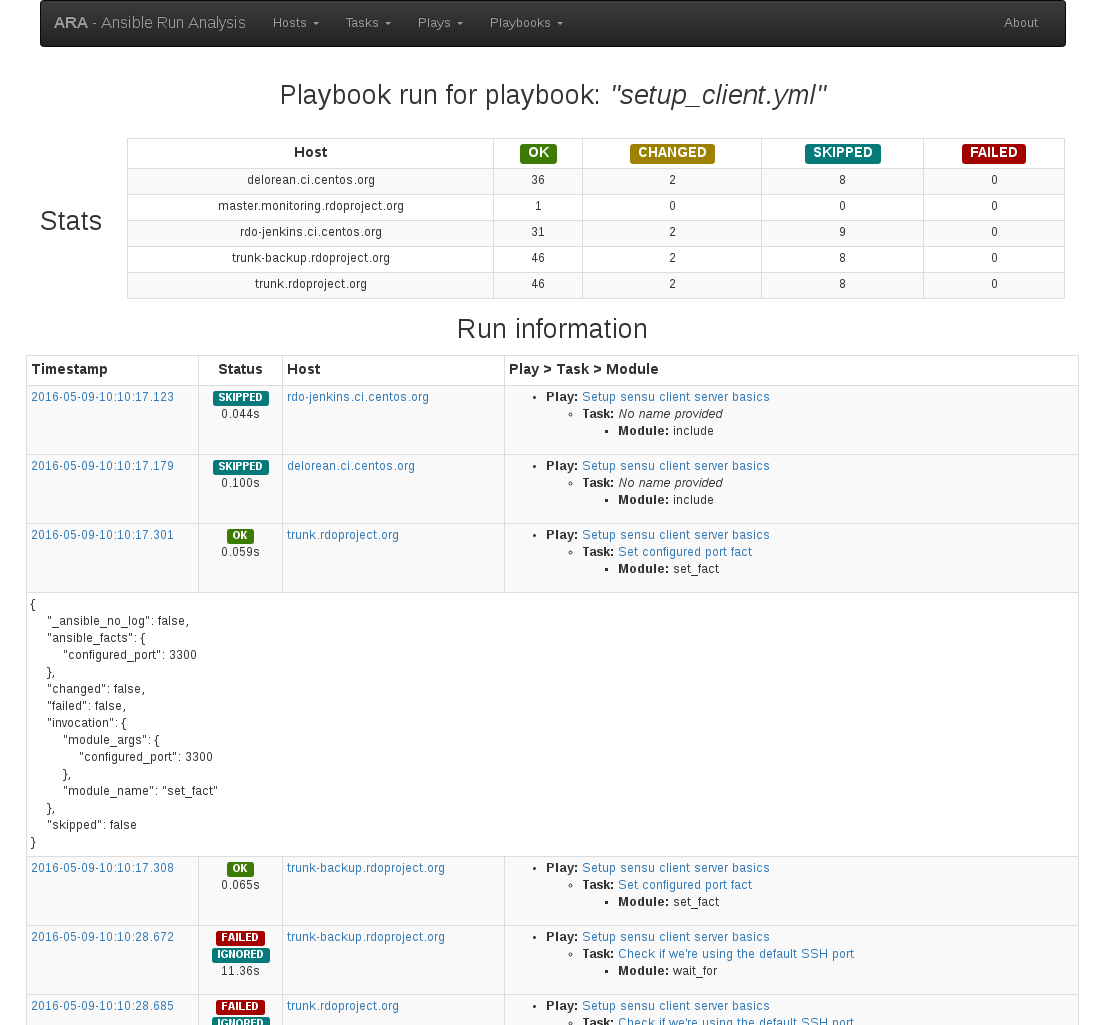
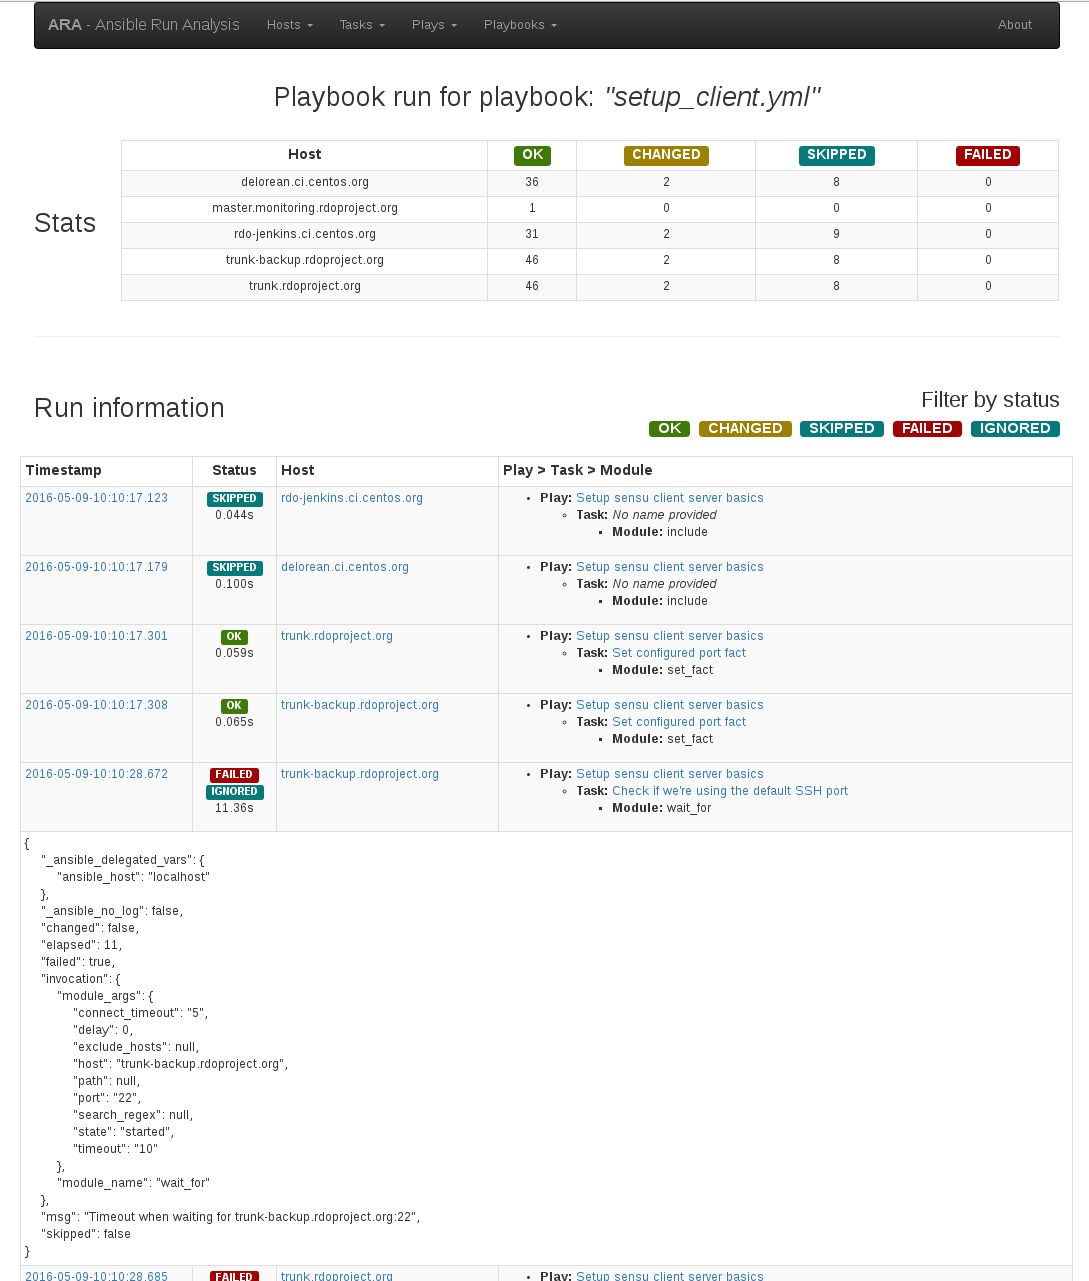
Add support for filtering by status

diff --git a/ara/templates/playbook.html b/ara/templates/playbook.html
@@ -15,10 +15,10 @@
             <thead>
                 <tr>
                     <th class="text-center">Host</th>
-                    <th class="text-center"><label class="label OK">OK</label></th>
-                    <th class="text-center"><label class="label CHANGED">CHANGED</label></th>
-                    <th class="text-center"><label class="label SKIPPED">SKIPPED</label></th>
-                    <th class="text-center"><label class="label FAILED">FAILED</label></th>
+                    <th class="text-center"><a href="/playbook/{{ playbook }}/ok"><label class="label OK">OK</label></a></th>
+                    <th class="text-center"><a href="/playbook/{{ playbook }}/changed"><label class="label CHANGED">CHANGED</label></th>
+                    <th class="text-center"><a href="/playbook/{{ playbook }}/skipped"><label class="label SKIPPED">SKIPPED</label></th>
+                    <th class="text-center"><a href="/playbook/{{ playbook }}/failed"><label class="label FAILED">FAILED</label></th>
                 </tr>
             </thead>
             <tbody>
@@ -35,8 +35,24 @@
         </table>
     </div>
 </div>
+<br>
+<hr>
+<br>
+<div class="row" style="display: flex; align-items: center;">
+    <div class="col-md-6">
+        <h2>Run information</h2>
+    </div>
+    <div class="col-md-6 text-right">
+        <h3>Filter by status</h3>
+        <a href="/playbook/{{ playbook }}/ok"><label class="label status-filter OK" style="margin-right: 5px;">OK</label></a>
+        <a href="/playbook/{{ playbook }}/changed"><label class="label status-filter CHANGED" style="margin-right: 5px;">CHANGED</label></a>
+        <a href="/playbook/{{ playbook }}/skipped"><label class="label status-filter SKIPPED" style="margin-right: 5px;">SKIPPED</label></a>
+        <a href="/playbook/{{ playbook }}/failed"><label class="label status-filter FAILED" style="margin-right: 5px;">FAILED</label></a>
+        <a href="/playbook/{{ playbook }}/ignored"><label class="label status-filter SKIPPED" >IGNORED</label></a>
+    </div>
+</div>
+<br>
 <div class="row">
-    <h2 class="text-center">Run information</h2>
     <table class="table table-striped table-hover table-condensed table-bordered" style="margin: 0 auto !important; float;">
         <thead>
             <tr>
@@ -53,9 +69,9 @@
                     <a href="#{{ row.end |datetime }}">{{ row.end |datetime }}</a>
                 </td>
                 <td class="text-center">
-                    <label class="label {{ row |pick_status }}">{{ row |pick_status }}</label><br>
+                    <a href="/playbook/{{ playbook }}/{{ row |pick_status |lower }}"><label class="label {{ row |pick_status }}">{{ row |pick_status }}</label></a><br>
                     {% if row.failed and row.ignore_errors %}
-                    <label class="label SKIPPED">IGNORED</label><br>
+                    <a href="/playbook/{{ playbook }}/ignored"><label class="label SKIPPED">IGNORED</label></a><br>
                     {% endif %}
                     {{ row.duration |truncate(5) }}s
                 </td>

diff --git a/ara/templates/host.html b/ara/templates/host.html
@@ -5,8 +5,21 @@
         <h2>Playbook run for host: <span style="font-style: italic;">"{{ host }}"</span></h2>
     </div>
 </div>
+<div class="row" style="display: flex; align-items: center;">
+    <div class="col-md-6">
+        <h2>Run information</h2>
+    </div>
+    <div class="col-md-6 text-right">
+        <h3>Filter by status</h3>
+        <a href="/host/{{ host }}/ok"><label class="label status-filter OK" style="margin-right: 5px;">OK</label></a>
+        <a href="/host/{{ host }}/changed"><label class="label status-filter CHANGED" style="margin-right: 5px;">CHANGED</label></a>
+        <a href="/host/{{ host }}/skipped"><label class="label status-filter SKIPPED" style="margin-right: 5px;">SKIPPED</label></a>
+        <a href="/host/{{ host }}/failed"><label class="label status-filter FAILED" style="margin-right: 5px;">FAILED</label></a>
+        <a href="/host/{{ host }}/ignored"><label class="label status-filter SKIPPED" >IGNORED</label></a>
+    </div>
+</div>
+<br>
 <div class="row">
-    <h2 class="text-center">Run information</h2>
     <table class="table table-striped table-hover table-condensed table-bordered" style="margin: 0 auto !important; float;">
         <thead>
             <tr>
@@ -23,7 +36,10 @@
                     <a href="#{{ row.end |datetime }}">{{ row.end |datetime }}</a>
                 </td>
                 <td class="text-center">
-                    <label class="label {{ row |pick_status }}">{{ row |pick_status }}</label><br>
+                    <a href="/host/{{ host }}/{{ row |pick_status |lower }}"><label class="label {{ row |pick_status }}">{{ row |pick_status }}</label></a><br>
+                    {% if row.failed and row.ignore_errors %}
+                    <a href="/host/{{ host }}/ignored"><label class="label SKIPPED">IGNORED</label></a><br>
+                    {% endif %}
                     {{ row.duration |truncate(5) }}s
                 </td>
                 <td><a href="/host/{{ row.host }}">{{ row.host }}</a></td>

diff --git a/ara/templates/play.html b/ara/templates/play.html
@@ -5,8 +5,21 @@
         <h2>Playbook run for play: <span style="font-style: italic;">"{{ play }}"</span></h2>
     </div>
 </div>
+<div class="row" style="display: flex; align-items: center;">
+    <div class="col-md-6">
+        <h2>Run information</h2>
+    </div>
+    <div class="col-md-6 text-right">
+        <h3>Filter by status</h3>
+        <a href="/play/{{ play }}/ok"><label class="label status-filter OK" style="margin-right: 5px;">OK</label></a>
+        <a href="/play/{{ play }}/changed"><label class="label status-filter CHANGED" style="margin-right: 5px;">CHANGED</label></a>
+        <a href="/play/{{ play }}/skipped"><label class="label status-filter SKIPPED" style="margin-right: 5px;">SKIPPED</label></a>
+        <a href="/play/{{ play }}/failed"><label class="label status-filter FAILED" style="margin-right: 5px;">FAILED</label></a>
+        <a href="/play/{{ play }}/ignored"><label class="label status-filter SKIPPED" >IGNORED</label></a>
+    </div>
+</div>
+<br>
 <div class="row">
-    <h2 class="text-center">Run information</h2>
     <table class="table table-striped table-hover table-condensed table-bordered" style="margin: 0 auto !important; float;">
         <thead>
             <tr>
@@ -23,7 +36,10 @@
                     <a href="#{{ row.end |datetime }}">{{ row.end |datetime }}</a>
                 </td>
                 <td class="text-center">
-                    <label class="label {{ row |pick_status }}">{{ row |pick_status }}</label><br>
+                    <a href="/play/{{ play }}/{{ row |pick_status |lower }}"><label class="label {{ row |pick_status }}">{{ row |pick_status }}</label></a><br>
+                    {% if row.failed and row.ignore_errors %}
+                    <a href="/play/{{ play }}/ignored"><label class="label SKIPPED">IGNORED</label></a><br>
+                    {% endif %}
                     {{ row.duration |truncate(5) }}s
                 </td>
                 <td><a href="/host/{{ row.host }}">{{ row.host }}</a></td>

diff --git a/ara/templates/task.html b/ara/templates/task.html
@@ -5,8 +5,21 @@
         <h2>Playbook run for task: <span style="font-style: italic;">"{{ task }}"</span></h2>
     </div>
 </div>
+<div class="row" style="display: flex; align-items: center;">
+    <div class="col-md-6">
+        <h2>Run information</h2>
+    </div>
+    <div class="col-md-6 text-right">
+        <h3>Filter by status</h3>
+        <a href="/task/{{ task }}/ok"><label class="label status-filter OK" style="margin-right: 5px;">OK</label></a>
+        <a href="/task/{{ task }}/changed"><label class="label status-filter CHANGED" style="margin-right: 5px;">CHANGED</label></a>
+        <a href="/task/{{ task }}/skipped"><label class="label status-filter SKIPPED" style="margin-right: 5px;">SKIPPED</label></a>
+        <a href="/task/{{ task }}/failed"><label class="label status-filter FAILED" style="margin-right: 5px;">FAILED</label></a>
+        <a href="/task/{{ task }}/ignored"><label class="label status-filter SKIPPED" >IGNORED</label></a>
+    </div>
+</div>
+<br>
 <div class="row">
-    <h2 class="text-center">Run information</h2>
     <table class="table table-striped table-hover table-condensed table-bordered" style="margin: 0 auto !important; float;">
         <thead>
             <tr>
@@ -23,7 +36,10 @@
                     <a href="#{{ row.end |datetime }}">{{ row.end |datetime }}</a>
                 </td>
                 <td class="text-center">
-                    <label class="label {{ row |pick_status }}">{{ row |pick_status }}</label><br>
+                    <a href="/task/{{ task }}/{{ row |pick_status |lower }}"><label class="label {{ row |pick_status }}">{{ row |pick_status }}</label></a><br>
+                    {% if row.failed and row.ignore_errors %}
+                    <a href="/task/{{ task }}/ignored"><label class="label SKIPPED">IGNORED</label></a><br>
+                    {% endif %}
                     {{ row.duration |truncate(5) }}s
                 </td>
                 <td><a href="/host/{{ row.host }}">{{ row.host }}</a></td>

diff --git a/ara/templates/layout.html b/ara/templates/layout.html
@@ -40,6 +40,12 @@
             .label {
                 font-size: 90%;
             }
+
+            .label.status-filter {
+                font-size: 120%;
+                padding-bottom: 1px;
+                padding-top: 1px;
+            }
         </style>
     </head>
     <body>

diff --git a/ara/views.py b/ara/views.py
@@ -26,36 +26,60 @@ def main():
 
 
 @app.route('/host/<host>')
-def host(host):
+@app.route('/host/<host>/<status>')
+def host(host, status=None):
     default_data = utils.default_data()
-    data = models.Tasks.query.filter_by(host=host)
+
+    if status is not None:
+        status_query = utils.status_to_query(status)
+        data = models.Tasks.query.filter_by(host=host, **status_query)
+    else:
+        data = models.Tasks.query.filter_by(host=host)
 
     return render_template('host.html', host=host, data=data, **default_data)
 
 
 @app.route('/task/<task>')
-def task(task):
+@app.route('/task/<task>/<status>')
+def task(task, status=None):
     default_data = utils.default_data()
-    data = models.Tasks.query.filter_by(task=task)
+
+    if status is not None:
+        status_query = utils.status_to_query(status)
+        data = models.Tasks.query.filter_by(task=task, **status_query)
+    else:
+        data = models.Tasks.query.filter_by(task=task)
 
     return render_template('task.html', task=task, data=data, **default_data)
 
 
 @app.route('/play/<play>')
-def play(play):
+@app.route('/play/<play>/<status>')
+def play(play, status=None):
     default_data = utils.default_data()
-    data = models.Tasks.query.filter_by(play=play)
+
+    if status is not None:
+        status_query = utils.status_to_query(status)
+        data = models.Tasks.query.filter_by(play=play, **status_query)
+    else:
+        data = models.Tasks.query.filter_by(play=play)
 
     return render_template('play.html', play=play, data=data, **default_data)
 
 
 @app.route('/playbook/<playbook>')
-def playbook(playbook):
+@app.route('/playbook/<playbook>/<status>')
+def playbook(playbook, status=None):
     default_data = utils.default_data()
     playbook_data = models.Playbooks.query.filter_by(playbook=playbook).first()
     playbook_uuid = playbook_data.id
 
-    task_data = models.Tasks.query.filter_by(playbook_uuid=playbook_uuid)
+    if status is not None:
+        status_query = utils.status_to_query(status)
+        task_data = models.Tasks.query.filter_by(playbook_uuid=playbook_uuid,
+                                                 **status_query)
+    else:
+        task_data = models.Tasks.query.filter_by(playbook_uuid=playbook_uuid)
     stats_data = models.Stats.query.filter_by(playbook_uuid=playbook_uuid)
 
     return render_template('playbook.html', playbook=playbook,

diff --git a/ara/utils.py b/ara/utils.py
@@ -53,6 +53,9 @@ def jinja_pick_status(row):
 
 
 def default_data():
+    """
+    Fetches a default set of data (mostly for displaying the top nav bar)
+    """
     data = {
         'hosts': [],
         'tasks': [],
@@ -75,3 +78,25 @@ def default_data():
             data['playbooks'].append(row.playbook)
 
     return data
+
+def status_to_query(status=None):
+    """
+    Returns a dict based on status
+    """
+    if status is not None:
+        return {
+            'ok': {
+                'changed': 0,
+                'failed': 0,
+                'skipped': 0
+            },
+            'changed': {'changed': 1},
+            'ignored': {
+                'failed': 1,
+                'ignore_errors': 1
+            },
+            'failed': {'failed': 1},
+            'skipped': {'skipped': 1},
+        }[status]
+    else:
+        return None
